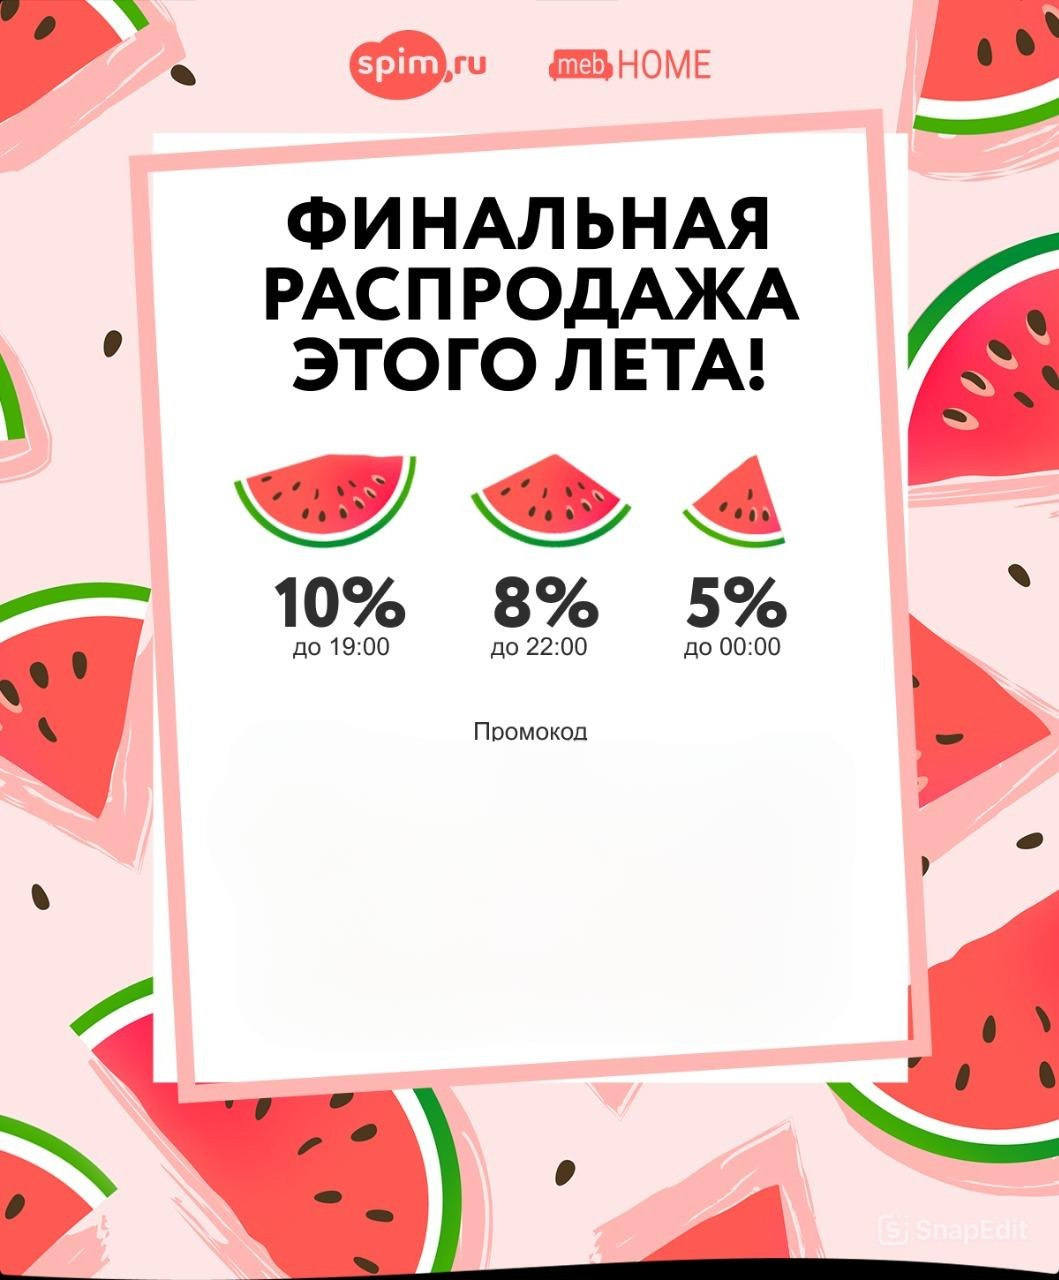
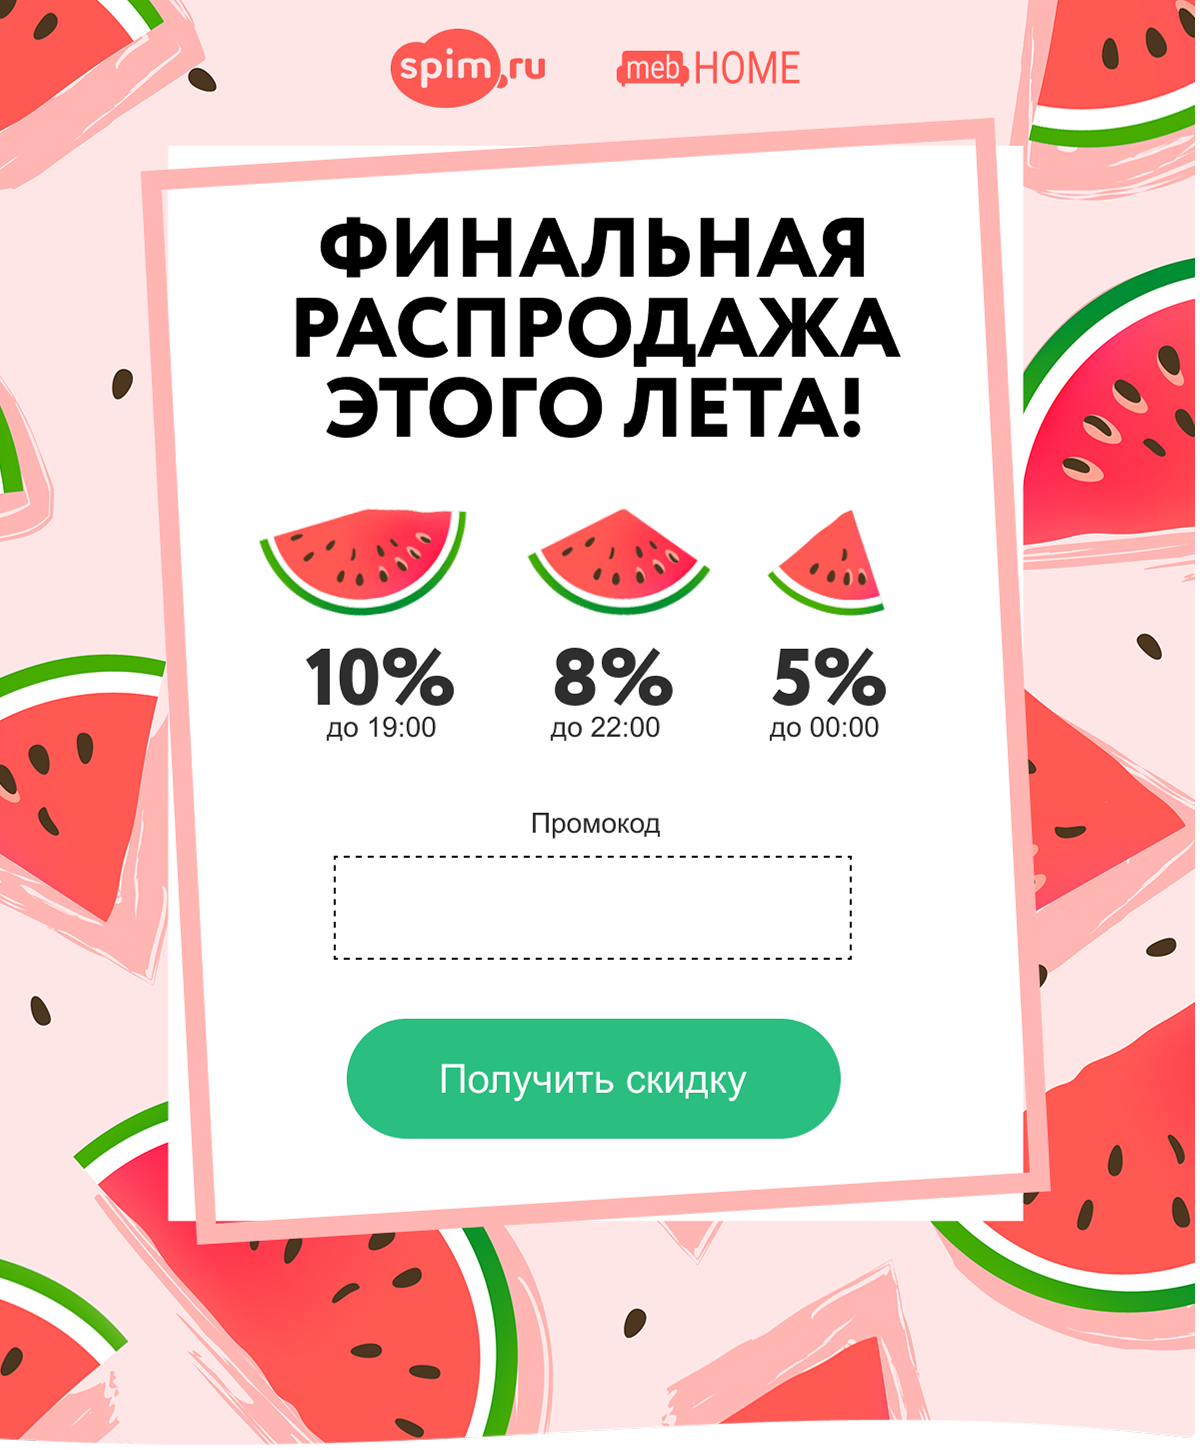
03_23.07

diff --git a/index.html b/index.html
@@ -21,60 +21,68 @@
             border="0"
             style="background-color: #ffffff"
           >
-            <!-- Шапка -->
-
-            <!-- Баннер с надписью "Промокод" -->
             <tr>
-              <td align="center">
-                <img
-                  src="img/ban.png"
-                  alt="Финальная распродажа этого лета!"
-                  width="600"
+              <td align="center" style="position: relative">
+                <div
                   style="
-                    display: block;
-                    width: 600px;
-                    max-width: 100%;
-                    height: auto;
-                  "
-                />
-              </td>
-            </tr>
-
-            <!-- Промокод и кнопка -->
-            <tr>
-              <td
-                align="center"
-                style="background-color: #ffffff; padding: 0 0 30px"
-              >
-                <!-- Промокод -->
-                <p
-                  style="
-                    font-family: Arial, sans-serif;
-                    font-size: 24px;
-                    font-weight: bold;
-                    color: #000000;
-                    margin: 15px 0 20px;
-                    letter-spacing: 1px;
-                    border: 2px dashed #cccccc;
-                    padding: 12px 24px;
+                    position: relative;
                     display: inline-block;
-                    border-radius: 6px;
+                    width: 100%;
+                    max-width: 600px;
                   "
                 >
-                  GOODBYELETO
-                </p>
+                  <img
+                    src="img/banner.png"
+                    alt="Финальная распродажа этого лета!"
+                    width="600"
+                    style="
+                      display: block;
+                      width: 100%;
+                      max-width: 600px;
+                      height: auto;
+                    "
+                  />
 
-                <!-- Кнопка -->
-                <table
-                  cellpadding="0"
-                  cellspacing="0"
-                  border="0"
-                  style="margin-top: 15px"
-                ></table>
+                  <div
+                    style="
+                      position: absolute;
+                      top: 62%;
+                      left: 50%;
+                      transform: translate(-50%, -50%);
+                      background-color: #ffffff;
+
+                      border-radius: 6px;
+                      padding: 6px 24px;
+                      font-family: Arial, sans-serif;
+                      font-size: 24px;
+                      font-weight: bold;
+                      color: #000000;
+                      letter-spacing: 1px;
+                    "
+                  >
+                    GOODBYELETO
+                  </div>
+                </div>
+                <div>
+                  <a
+                    href="#"
+                    style="
+                      position: absolute;
+                      top: calc(62% + 30px);
+                      left: 50%;
+                      transform: translateX(-50%);
+                      width: 300px;
+                      height: 80px;
+                      display: block;
+                      text-decoration: none;
+                      cursor: pointer;
+                      z-index: 1;
+                    "
+                  ></a>
+                </div>
               </td>
             </tr>
 
-            <!-- Основной текст -->
             <tr>
               <td
                 style="
@@ -123,7 +131,6 @@
                   style="border-collapse: separate !important"
                 >
                   <tr>
-                    <!-- Товар 1 -->
                     <td align="center" valign="top" style="width: 200px">
                       <a
                         href="#"
@@ -149,7 +156,6 @@
                       </a>
                     </td>
 
-                    <!-- Отступ 25px -->
                     <td
                       width="25"
                       style="
@@ -167,7 +173,6 @@
                       />
                     </td>
 
-                    <!-- Товар 2 -->
                     <td align="center" valign="top" style="width: 200px">
                       <a href="#">
                         <img
@@ -190,7 +195,6 @@
                       </a>
                     </td>
 
-                    <!-- Отступ 25px -->
                     <td
                       width="25"
                       style="
@@ -208,7 +212,6 @@
                       />
                     </td>
 
-                    <!-- Товар 3 -->
                     <td align="center" valign="top" style="width: 200px">
                       <a href="#">
                         <img
@@ -232,7 +235,6 @@
                     </td>
                   </tr>
 
-                  <!-- Вертикальный отступ между рядами -->
                   <tr>
                     <td
                       colspan="5"
@@ -254,7 +256,6 @@
                   </tr>
 
                   <tr>
-                    <!-- Товар 4 -->
                     <td align="center" valign="top" style="width: 200px">
                       <a href="#">
                         <img
@@ -277,7 +278,6 @@
                       </a>
                     </td>
 
-                    <!-- Отступ 25px -->
                     <td
                       width="25"
                       style="
@@ -295,7 +295,6 @@
                       />
                     </td>
 
-                    <!-- Товар 5 -->
                     <td align="center" valign="top" style="width: 200px">
                       <a href="#">
                         <img
@@ -318,7 +317,6 @@
                       </a>
                     </td>
 
-                    <!-- Отступ 25px -->
                     <td
                       width="25"
                       style="
@@ -336,7 +334,6 @@
                       />
                     </td>
 
-                    <!-- Товар 6 -->
                     <td align="center" valign="top" style="width: 200px">
                       <a href="#">
                         <img
@@ -363,7 +360,6 @@
               </td>
             </tr>
 
-            <!-- Кнопка магазин -->
             <tr>
               <td align="center" style="padding: 20px 50px">
                 <table cellpadding="0" cellspacing="0" border="0">
@@ -412,7 +408,6 @@
               </td>
             </tr>
 
-            <!-- Подвал -->
             <tr style="background-color: #f5f5f5">
               <td align="center" style="padding: 20px 40px">
                 <table
@@ -423,7 +418,6 @@
                   width="100%"
                 >
                   <tr>
-                    <!-- Левая колонка: иконки -->
                     <td align="center" width="50%">
                       <table
                         border="0"
@@ -496,7 +490,6 @@
                       </table>
                     </td>
 
-                    <!-- Правая колонка: телефон -->
                     <td
                       align="center"
                       width="50%"
